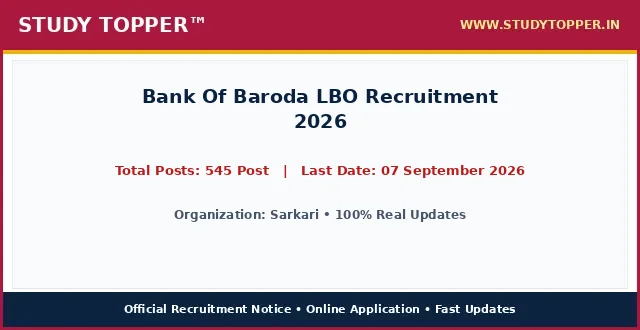
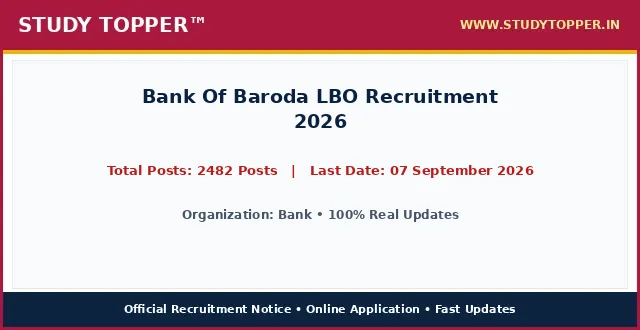
chore(lifecycle): daily auto-sort vacancies and update active dates

Changed region(s): [[0.1562, 0.4848, 0.8438, 0.5455], [0.25, 0.6364, 0.75, 0.6667]]

diff --git a/pages/2026-bank-of-baroda-lbo-aug26.html b/pages/2026-bank-of-baroda-lbo-aug26.html
@@ -987,12 +987,12 @@ ul.wp-block-latest-posts a:hover {
 <main class="site-main" id="main">
 <div class="gb-container gb-container-b39c368c">
 <h1 class="gb-headline gb-headline-e52a0102 gb-headline-text" style="font-size: 22px; font-weight: 700; color: #0000cd; text-align: left; margin: 8px 0 4px 0; line-height: 1.3; width: 100%; font-family: '-apple-system, BlinkMacSystemFont, 'Segoe UI', Roboto, 'Helvetica Neue', Arial, sans-serif', Times, serif, Hind, sans-serif;">Bank Of Baroda LBO Recruitment 2026</h1>
-<div class="gb-container gb-container-659bd175"><p style="color: #cd0808; font-weight: 700; font-size: 15px; margin: 2px 0 7px 0; text-align: left; font-family: '-apple-system, BlinkMacSystemFont, 'Segoe UI', Roboto, 'Helvetica Neue', Arial, sans-serif', Times, serif, Hind, sans-serif;">Post Date: August 22, 2026 11:50 AM</p></div>
-<p class="gb-headline gb-headline-550ae316 short_Details gb-headline-text" style="width: 100%; max-width: 100%; font-size: 16.8px; line-height: 1.55; color: #000000; text-align: justify; text-justify: inter-word; margin: 8px 0 14px 0; display: block; font-family: '-apple-system, BlinkMacSystemFont, 'Segoe UI', Roboto, 'Helvetica Neue', Arial, sans-serif', Times, serif, Hind, sans-serif;"><strong style="color: #0000cd;">Sarkari</strong> has officially published the recruitment notice <strong style="color: #cd0808;">Bank Of Baroda LBO Recruitment 2026</strong> under notification number Official Advt 2026. Online applications are invited for 545 Post across multiple departments and cadre positions. Interested candidates possessing the requisite educational qualifications and falling between 18 Years to 40 Years can complete their online registration before the application deadline of 07 September 2026. Applicants should read the eligibility criteria, category reservation rules, and exam scheme thoroughly before submitting applications.</p>
+<div class="gb-container gb-container-659bd175"><p style="color: #cd0808; font-weight: 700; font-size: 15px; margin: 2px 0 7px 0; text-align: left; font-family: '-apple-system, BlinkMacSystemFont, 'Segoe UI', Roboto, 'Helvetica Neue', Arial, sans-serif', Times, serif, Hind, sans-serif;">Post Date: August 22, 2026 12:42 PM</p></div>
+<p class="gb-headline gb-headline-550ae316 short_Details gb-headline-text" style="width: 100%; max-width: 100%; font-size: 16.8px; line-height: 1.55; color: #000000; text-align: justify; text-justify: inter-word; margin: 8px 0 14px 0; display: block; font-family: '-apple-system, BlinkMacSystemFont, 'Segoe UI', Roboto, 'Helvetica Neue', Arial, sans-serif', Times, serif, Hind, sans-serif;"><strong style="color: #0000cd;">Bank Of Baroda LBO</strong> has officially published the recruitment notice <strong style="color: #cd0808;">Bank Of Baroda LBO Recruitment 2026</strong> under notification number 2026. Online applications are invited for 2482 Posts across multiple departments and cadre positions. Interested candidates possessing the requisite educational qualifications and falling between 18 Years to 40 Years can complete their online registration before the application deadline of 07 September 2026. Applicants should read the eligibility criteria, category reservation rules, and exam scheme thoroughly before submitting applications.</p>
 <div class="gb-container gb-container-9849916c"><div class="social-buttons-compact" style="display: flex; justify-content: flex-start; align-items: center; gap: 10px; margin: 10px 0 16px 0; width: 100%;"><a class="social-btn-compact wa" href="https://whatsapp.com/channel/0029Va9xyz" rel="noopener" style="background-color: #00d084; color: #ffffff; padding: 10px 18px; border-radius: 4px; text-decoration: none; font-weight: bold; font-size: 15.5px; display: inline-flex; align-items: center; justify-content: center; height: auto;" target="_blank">WhatsApp</a><a class="social-btn-compact tg" href="https://t.me/studytopperofficial" rel="noopener" style="background-color: #0088cc; color: #ffffff; padding: 10px 18px; border-radius: 4px; text-decoration: none; font-weight: bold; font-size: 15.5px; display: inline-flex; align-items: center; justify-content: center; height: auto;" target="_blank">Telegram</a></div></div>
 <div class="gb-container gb-container-f58e6ca1" style="border: 2px solid #5b032f; border-radius: 4px; overflow: hidden; margin: 15px 0 20px 0; background-color: #ffffff; width: 100%; box-sizing: border-box;">
 <h2 class="gb-headline gb-headline-2ca5a791 gb-headline-text" style="font-size: 16px; font-weight: 700; text-align: center; color: #ef0303; line-height: 1.3; padding: 6px 4px; margin: 0; background: #ffffff; font-family: '-apple-system, BlinkMacSystemFont, 'Segoe UI', Roboto, 'Helvetica Neue', Arial, sans-serif', Times, serif, Hind, sans-serif;">Bank Of Baroda LBO Recruitment 2026 &ndash; Latest Details &amp; Updates</h2>
-<h3 class="gb-headline gb-headline-7d5f86e8 gb-headline-text" style="font-size: 16px; font-weight: 600; text-align: center; color: #009703; line-height: 1.25; margin: 0; padding: 2px 4px 6px 4px; background: #ffffff; font-family: '-apple-system, BlinkMacSystemFont, 'Segoe UI', Roboto, 'Helvetica Neue', Arial, sans-serif', Times, serif, Hind, sans-serif;">Sarkari : Details &amp; Summary</h3>
+<h3 class="gb-headline gb-headline-7d5f86e8 gb-headline-text" style="font-size: 16px; font-weight: 600; text-align: center; color: #009703; line-height: 1.25; margin: 0; padding: 2px 4px 6px 4px; background: #ffffff; font-family: '-apple-system, BlinkMacSystemFont, 'Segoe UI', Roboto, 'Helvetica Neue', Arial, sans-serif', Times, serif, Hind, sans-serif;">Bank Of Baroda LBO : Details &amp; Summary</h3>
 <p class="gb-headline gb-headline-79adf169 gb-headline-text" style="margin: 0 0 6px 0; font-family: '-apple-system, BlinkMacSystemFont, 'Segoe UI', Roboto, 'Helvetica Neue', Arial, sans-serif', Times, serif, Hind, sans-serif; text-align: center; font-size: 18px; font-weight: 700;"><a href="/" style="color: #0000ff; text-decoration: underline;">StudyTopper.in</a></p>
 
 <style id="st-post-boxes-responsive-css">
@@ -1025,7 +1025,7 @@ ul.wp-block-latest-posts a:hover {
     <div style="background-color: #5b032f; color: #ffffff; padding: 8px 10px; font-size: 20px; font-weight: 700; text-align: center; font-family: '-apple-system, BlinkMacSystemFont, 'Segoe UI', Roboto, 'Helvetica Neue', Arial, sans-serif', Times, serif, Hind, sans-serif;">Important Dates</div>
     <div style="padding: 12px 14px; background-color: #ffffff;">
       <ul style="padding-left: 20px; margin: 0; list-style-type: disc; text-align: left; font-size: 14pt; line-height: 1.6; font-family: '-apple-system, BlinkMacSystemFont, 'Segoe UI', Roboto, 'Helvetica Neue', Arial, sans-serif', Times, serif, Hind, sans-serif;">
-        
+        <li><span style="font-size: 14pt;">Application Begin : <strong>As per Official Notification</strong></span></li><li><span style="font-size: 14pt;">Last Date for Apply Online : <span style="color: #ff0000;"><strong>07 September 2026</strong></span></span></li><li><span style="font-size: 14pt;">Pay Exam Fee Last Date : <span style="color: #ff0000;"><strong>07 September 2026</strong></span></span></li><li><span style="font-size: 14pt;">Exam Date : <strong>As per Schedule</strong></span></li><li><span style="font-size: 14pt;">Admit Card Available : <strong>Before Examination</strong></span></li>
       </ul>
     </div>
   </div>
@@ -1034,7 +1034,7 @@ ul.wp-block-latest-posts a:hover {
     <div style="background-color: #5b032f; color: #ffffff; padding: 8px 10px; font-size: 20px; font-weight: 700; text-align: center; font-family: '-apple-system, BlinkMacSystemFont, 'Segoe UI', Roboto, 'Helvetica Neue', Arial, sans-serif', Times, serif, Hind, sans-serif;">Application Fee</div>
     <div style="padding: 12px 14px; background-color: #ffffff;">
       <ul style="padding-left: 20px; margin: 0; list-style-type: disc; text-align: left; font-size: 14pt; line-height: 1.6; font-family: '-apple-system, BlinkMacSystemFont, 'Segoe UI', Roboto, 'Helvetica Neue', Arial, sans-serif', Times, serif, Hind, sans-serif;">
-        <li><span style="font-size: 14pt;">Bihar Police BPSSC Sub Inspector SI Prohibition Result 2026 Advt. No. : <strong>03/2026</strong></span></li><li><span style="font-size: 14pt;">UP Scholarship Online Form 2026 : <strong>2027</strong></span></li>
+        <li><span style="font-size: 14pt;">General / OBC / EWS : <strong>Check Official Notification</strong></span></li><li><span style="font-size: 14pt;">SC / ST / PH : <strong>Check Official Notification</strong></span></li><li><span style="font-size: 14pt;">Payment Mode : <strong>Online Fee Mode via Net Banking, Debit/Credit Card or Offline Challan</strong></span></li>
       </ul>
       <div style="margin-top: 10px; font-size: 14pt; line-height: 1.5; color: #000000; border-top: 1px dashed #ccc; padding-top: 8px; font-family: '-apple-system, BlinkMacSystemFont, 'Segoe UI', Roboto, 'Helvetica Neue', Arial, sans-serif', Times, serif, Hind, sans-serif;">
         <strong>Mode of Payment / Access:</strong> Online via Net Banking, Debit Card, Credit Card, UPI or Free Candidate Portal.
@@ -1047,10 +1047,10 @@ ul.wp-block-latest-posts a:hover {
 <div class="st-grid-row" style="display: flex; flex-wrap: wrap; width: 100%; border-top: 2px solid #5b032f; margin: 0; padding: 0; box-sizing: border-box;">
   <!-- Left Col: Age Limits -->
   <div class="st-col-half st-col-border-right" style="box-sizing: border-box; vertical-align: top;">
-    <div style="background-color: #046132; color: #ffffff; padding: 8px 10px; font-size: 17px; font-weight: 700; text-align: center; font-family: '-apple-system, BlinkMacSystemFont, 'Segoe UI', Roboto, 'Helvetica Neue', Arial, sans-serif', Times, serif, Hind, sans-serif;">Sarkari : Age Limits As On 01 August 2026</div>
+    <div style="background-color: #046132; color: #ffffff; padding: 8px 10px; font-size: 17px; font-weight: 700; text-align: center; font-family: '-apple-system, BlinkMacSystemFont, 'Segoe UI', Roboto, 'Helvetica Neue', Arial, sans-serif', Times, serif, Hind, sans-serif;">Bank Of Baroda LBO : Age Limits As On 01/08/2026</div>
     <div style="padding: 12px 14px; background-color: #ffffff;">
       <ul style="padding-left: 20px; margin: 0; list-style-type: disc; text-align: left; font-size: 14pt; line-height: 1.6; font-family: '-apple-system, BlinkMacSystemFont, 'Segoe UI', Roboto, 'Helvetica Neue', Arial, sans-serif', Times, serif, Hind, sans-serif;">
-        
+        <li><span style="font-size: 14pt;">Minimum Age : <strong>18 Years (As per post rules)</strong></span></li><li><span style="font-size: 14pt;">Maximum Age : <strong>40 Years (As per post rules)</strong></span></li><li><span style="font-size: 14pt;">Age Relaxation : <strong>Age Relaxation Extra as per Bank Recruitment Rules.</strong></span></li>
       </ul>
     </div>
   </div>
@@ -1058,7 +1058,7 @@ ul.wp-block-latest-posts a:hover {
   <div class="st-col-half" style="box-sizing: border-box; vertical-align: top;">
     <div style="background-color: #f53c00; color: #ffffff; padding: 8px 10px; font-size: 20px; font-weight: 700; text-align: center; font-family: '-apple-system, BlinkMacSystemFont, 'Segoe UI', Roboto, 'Helvetica Neue', Arial, sans-serif', Times, serif, Hind, sans-serif;">Total Post</div>
     <div style="padding: 24px 10px; background-color: #ffffff; text-align: center;">
-      <span style="font-size: 28px; font-weight: 800; color: #000000; font-family: '-apple-system, BlinkMacSystemFont, 'Segoe UI', Roboto, 'Helvetica Neue', Arial, sans-serif', Times, serif, Hind, sans-serif;">545 Post</span>
+      <span style="font-size: 28px; font-weight: 800; color: #000000; font-family: '-apple-system, BlinkMacSystemFont, 'Segoe UI', Roboto, 'Helvetica Neue', Arial, sans-serif', Times, serif, Hind, sans-serif;">2482 Posts</span>
     </div>
   </div>
 </div>
@@ -1079,9 +1079,9 @@ ul.wp-block-latest-posts a:hover {
 <th style="background-color: #f53c00; color: #ffffff; padding: 6px 10px; text-align: center; border: 1px solid #d35400; font-size: 15px; font-weight: 700; font-family: '-apple-system, BlinkMacSystemFont, 'Segoe UI', Roboto, 'Helvetica Neue', Arial, sans-serif', Times, serif, Hind, sans-serif;">Eligibility Criteria</th>
 </tr>
 <tr>
-<td style="padding: 8px; border: 1px solid #ddd; font-weight: bold;">Sarkari Recruitment</td>
-<td style="padding: 8px; border: 1px solid #ddd; text-align: center; font-weight: bold;">545 Post</td>
-<td style="padding: 8px; border: 1px solid #ddd;">Please refer to the official notification linked below for detailed educational qualifications.</td>
+<td style="padding: 8px; border: 1px solid #ddd; font-weight: bold;">Local Bank Officer (LBO)</td>
+<td style="padding: 8px; border: 1px solid #ddd; text-align: center; font-weight: bold;">Candidates must have Graduation degree in any discipline from a recognized University/Institution. with at least 1 year of experience as an officer in a Scheduled or Regional Rural Bank. Proficiency in the local language is required.</td>
+<td style="padding: 8px; border: 1px solid #ddd;"></td>
 </tr>
 </tbody>
 </table>
@@ -1093,10 +1093,10 @@ ul.wp-block-latest-posts a:hover {
 <table style="border-collapse: collapse; width: 100%;">
 <tbody>
 <tr>
-<td style="width: 100%; text-align: center;"><span style="background-color: #000080; color: #ffffff; font-size: 14pt; font-weight: bold; display: block; padding: 6px;"> How to Fill Sarkari Online Application Form </span></td>
+<td style="width: 100%; text-align: center;"><span style="background-color: #000080; color: #ffffff; font-size: 14pt; font-weight: bold; display: block; padding: 6px;"> How to Fill Bank Of Baroda LBO Online Application Form </span></td>
 </tr>
 <tr>
-<td style="width: 100%;"><ol style="margin:0; padding-left:18px; text-align: left !important; list-style-position: outside !important"><li style="margin-bottom:6px; text-align: left !important;">Read the official recruitment notification carefully before applying.</li><li style="margin-bottom:6px; text-align: left !important;">Keep all basic documents ready: ID Proof, Address Details, Basic Details.</li><li style="margin-bottom:6px; text-align: left !important;">Ready your scanned documents like Photo, Signature, ID Proof, etc.</li><li style="margin-bottom:6px; text-align: left !important;">Click on the 'Apply Online' link given in the Important Links section below.</li><li style="margin-bottom:6px; text-align: left !important;">Fill out all the columns in the application form accurately.</li><li style="margin-bottom:6px; text-align: left !important;">Pay the required application fee if applicable.</li><li style="margin-bottom:6px; text-align: left !important;">Take a printout of the final submitted application form.</li><li style="margin-bottom:6px; text-align: left !important;">Resize candidate photograph and signature accurately using the <a href="https://indtool.in" rel="noopener" target="_blank"><strong>StudyTopper Tools</strong></a> image resizer at indtool.in.</li></ol></td>
+<td style="width: 100%;"><ol style="margin:0; padding-left:18px; text-align: left !important; list-style-position: outside !important"><li style="margin-bottom:6px; text-align: left !important;">Candidate must read the complete official notification issued by Bank before applying.</li><li style="margin-bottom:6px; text-align: left !important;">Collect and verify all essential documents including Educational Proof, ID Proof, Address Details, and Basic Details.</li><li style="margin-bottom:6px; text-align: left !important;">Scan all necessary documents accurately: Passport Size Photograph, Signature, ID Proof, and Category Certificate.</li><li style="margin-bottom:6px; text-align: left !important;">Click on the 'Apply Online' link given in the Important Links section below on StudyTopper.</li><li style="margin-bottom:6px; text-align: left !important;">Fill all required personal, educational, and communication details in the application form carefully.</li><li style="margin-bottom:6px; text-align: left !important;">Review the application form preview thoroughly before final submission.</li><li style="margin-bottom:6px; text-align: left !important;">Pay the prescribed examination fee through online payment gateway if applicable.</li><li style="margin-bottom:6px; text-align: left !important;">Take a clean printout of the final submitted application form for future reference.</li><li style="margin-bottom:6px; text-align: left !important;">Resize candidate photograph and signature accurately using the <a href="https://indtool.in" rel="noopener" target="_blank"><strong>StudyTopper Tools</strong></a> image resizer at indtool.in.</li></ol></td>
 </tr>
 </tbody>
 </table>
@@ -1104,7 +1104,7 @@ ul.wp-block-latest-posts a:hover {
 <table style="border-collapse: collapse; width: 100%;">
 <tbody>
 <tr>
-<td style="width: 100%; text-align: center;"><span style="background-color: #000080; color: #ffffff; font-size: 14pt;"><strong><span style="color: #ffffff;"> Sarkari Recruitment 2026 : Mode Of Selection </span></strong></span></td>
+<td style="width: 100%; text-align: center;"><span style="background-color: #000080; color: #ffffff; font-size: 14pt;"><strong><span style="color: #ffffff;"> Bank Of Baroda LBO Recruitment 2026 : Mode Of Selection </span></strong></span></td>
 </tr>
 <tr>
 <td style="width: 100%;">
@@ -1144,10 +1144,26 @@ ul.wp-block-latest-posts a:hover {
 
 <tr style="border-bottom: 1px solid #000000; background-color: #fff37a;">
 <td style="width: 50%; padding: 14px 16px; border-right: 1px solid #000000; text-align: center;">
+<span style="font-size: 19px; font-weight: 800; color: #000000; font-family: '-apple-system, BlinkMacSystemFont, 'Segoe UI', Roboto, 'Helvetica Neue', Arial, sans-serif', Times, serif, Hind, sans-serif;">Join Our WhatsApp Channel</span>
+</td>
+<td style="width: 50%; padding: 14px 16px; text-align: center;">
+<span style="font-size: 20px; font-weight: 800; font-family: '-apple-system, BlinkMacSystemFont, 'Segoe UI', Roboto, 'Helvetica Neue', Arial, sans-serif', Times, serif, Hind, sans-serif;"><a href="https://whatsapp.com/channel/0029VaAbQf01NCrYADMLt00L" aria-label="Click Here for Join Our WhatsApp Channel - Bank Of Baroda LBO Recruitment 2026" rel="noopener noreferrer" style="color: #0000ef; font-weight: 800; text-decoration: none;" target="_blank">Click Here</a></span>
+</td>
+</tr>
+<tr style="border-bottom: 1px solid #000000; background-color: #fff37a;">
+<td style="width: 50%; padding: 14px 16px; border-right: 1px solid #000000; text-align: center;">
+<span style="font-size: 19px; font-weight: 800; color: #000000; font-family: '-apple-system, BlinkMacSystemFont, 'Segoe UI', Roboto, 'Helvetica Neue', Arial, sans-serif', Times, serif, Hind, sans-serif;">Join Our Telegram Channel</span>
+</td>
+<td style="width: 50%; padding: 14px 16px; text-align: center;">
+<span style="font-size: 20px; font-weight: 800; font-family: '-apple-system, BlinkMacSystemFont, 'Segoe UI', Roboto, 'Helvetica Neue', Arial, sans-serif', Times, serif, Hind, sans-serif;"><a href="https://t.me/SarkariExam_info" aria-label="Click Here for Join Our Telegram Channel - Bank Of Baroda LBO Recruitment 2026" rel="noopener noreferrer" style="color: #0000ef; font-weight: 800; text-decoration: none;" target="_blank">Click Here</a></span>
+</td>
+</tr>
+<tr style="border-bottom: 1px solid #000000; background-color: #fff37a;">
+<td style="width: 50%; padding: 14px 16px; border-right: 1px solid #000000; text-align: center;">
 <span style="font-size: 19px; font-weight: 800; color: #000000; font-family: '-apple-system, BlinkMacSystemFont, 'Segoe UI', Roboto, 'Helvetica Neue', Arial, sans-serif', Times, serif, Hind, sans-serif;">Apply Online Link</span>
 </td>
 <td style="width: 50%; padding: 14px 16px; text-align: center;">
-<span style="font-size: 20px; font-weight: 800; font-family: '-apple-system, BlinkMacSystemFont, 'Segoe UI', Roboto, 'Helvetica Neue', Arial, sans-serif', Times, serif, Hind, sans-serif;"><a href="https://www.sarkariresult.com/2026/mpesb-group2-subgroup-4-aug26/" aria-label="Click Here for Apply Online Link - Bank Of Baroda LBO Recruitment 2026" rel="noopener noreferrer" style="color: #0000ef; font-weight: 800; text-decoration: none;" target="_blank">Click Here</a></span>
+<span style="font-size: 20px; font-weight: 800; font-family: '-apple-system, BlinkMacSystemFont, 'Segoe UI', Roboto, 'Helvetica Neue', Arial, sans-serif', Times, serif, Hind, sans-serif;"><a href="https://ibpsreg.ibps.in/bobjul26/" aria-label="Click Here for Apply Online Link - Bank Of Baroda LBO Recruitment 2026" rel="noopener noreferrer" style="color: #0000ef; font-weight: 800; text-decoration: none;" target="_blank">Click Here</a></span>
 </td>
 </tr>
 <tr style="border-bottom: 1px solid #000000; background-color: #fff37a;">
@@ -1155,15 +1171,7 @@ ul.wp-block-latest-posts a:hover {
 <span style="font-size: 19px; font-weight: 800; color: #000000; font-family: '-apple-system, BlinkMacSystemFont, 'Segoe UI', Roboto, 'Helvetica Neue', Arial, sans-serif', Times, serif, Hind, sans-serif;">Check Official Notification</span>
 </td>
 <td style="width: 50%; padding: 14px 16px; text-align: center;">
-<span style="font-size: 20px; font-weight: 800; font-family: '-apple-system, BlinkMacSystemFont, 'Segoe UI', Roboto, 'Helvetica Neue', Arial, sans-serif', Times, serif, Hind, sans-serif;"><a href="" aria-label="Click Here for Check Official Notification - Bank Of Baroda LBO Recruitment 2026" rel="noopener noreferrer" style="color: #0000ef; font-weight: 800; text-decoration: none;" target="_blank">Click Here</a></span>
-</td>
-</tr>
-<tr style="border-bottom: 1px solid #000000; background-color: #fff37a;">
-<td style="width: 50%; padding: 14px 16px; border-right: 1px solid #000000; text-align: center;">
-<span style="font-size: 19px; font-weight: 800; color: #000000; font-family: '-apple-system, BlinkMacSystemFont, 'Segoe UI', Roboto, 'Helvetica Neue', Arial, sans-serif', Times, serif, Hind, sans-serif;">Photo / Sign Resizer Tool</span>
-</td>
-<td style="width: 50%; padding: 14px 16px; text-align: center;">
-<span style="font-size: 20px; font-weight: 800; font-family: '-apple-system, BlinkMacSystemFont, 'Segoe UI', Roboto, 'Helvetica Neue', Arial, sans-serif', Times, serif, Hind, sans-serif;"><a href="https://indtool.in" aria-label="Click Here for Photo / Sign Resizer Tool - Bank Of Baroda LBO Recruitment 2026" rel="noopener noreferrer" style="color: #0000ef; font-weight: 800; text-decoration: none;" target="_blank">Click Here</a></span>
+<span style="font-size: 20px; font-weight: 800; font-family: '-apple-system, BlinkMacSystemFont, 'Segoe UI', Roboto, 'Helvetica Neue', Arial, sans-serif', Times, serif, Hind, sans-serif;"><a href="https://bankofbaroda.bank.in/-/media/Project/BOB/CountryWebsites/India/Career/2026/26-08/Advertisement-18-04.pdf" aria-label="Click Here for Check Official Notification - Bank Of Baroda LBO Recruitment 2026" rel="noopener noreferrer" style="color: #0000ef; font-weight: 800; text-decoration: none;" target="_blank">Click Here</a></span>
 </td>
 </tr>
 <tr style="border-bottom: 1px solid #000000; background-color: #fff37a;">
@@ -1171,15 +1179,55 @@ ul.wp-block-latest-posts a:hover {
 <span style="font-size: 19px; font-weight: 800; color: #000000; font-family: '-apple-system, BlinkMacSystemFont, 'Segoe UI', Roboto, 'Helvetica Neue', Arial, sans-serif', Times, serif, Hind, sans-serif;">Check Sarkari Result</span>
 </td>
 <td style="width: 50%; padding: 14px 16px; text-align: center;">
-<span style="font-size: 20px; font-weight: 800; font-family: '-apple-system, BlinkMacSystemFont, 'Segoe UI', Roboto, 'Helvetica Neue', Arial, sans-serif', Times, serif, Hind, sans-serif;"><a href="/" aria-label="Click Here for Check Sarkari Result - Bank Of Baroda LBO Recruitment 2026" rel="noopener noreferrer" style="color: #0000ef; font-weight: 800; text-decoration: none;" >Click Here</a></span>
+<span style="font-size: 20px; font-weight: 800; font-family: '-apple-system, BlinkMacSystemFont, 'Segoe UI', Roboto, 'Helvetica Neue', Arial, sans-serif', Times, serif, Hind, sans-serif;"><a href="https://sarkariresult.com.cm/" aria-label="Click Here for Check Sarkari Result - Bank Of Baroda LBO Recruitment 2026" rel="noopener noreferrer" style="color: #0000ef; font-weight: 800; text-decoration: none;" target="_blank">Click Here</a></span>
+</td>
+</tr>
+<tr style="border-bottom: 1px solid #000000; background-color: #fff37a;">
+<td style="width: 50%; padding: 14px 16px; border-right: 1px solid #000000; text-align: center;">
+<span style="font-size: 19px; font-weight: 800; color: #000000; font-family: '-apple-system, BlinkMacSystemFont, 'Segoe UI', Roboto, 'Helvetica Neue', Arial, sans-serif', Times, serif, Hind, sans-serif;">Bank of Baroda Official Website</span>
+</td>
+<td style="width: 50%; padding: 14px 16px; text-align: center;">
+<span style="font-size: 20px; font-weight: 800; font-family: '-apple-system, BlinkMacSystemFont, 'Segoe UI', Roboto, 'Helvetica Neue', Arial, sans-serif', Times, serif, Hind, sans-serif;"><a href="https://www.bankofbaroda.in/" aria-label="Click Here for Bank of Baroda Official Website - Bank Of Baroda LBO Recruitment 2026" rel="noopener noreferrer" style="color: #0000ef; font-weight: 800; text-decoration: none;" target="_blank">Click Here</a></span>
+</td>
+</tr>
+<tr style="border-bottom: 1px solid #000000; background-color: #fff37a;">
+<td style="width: 50%; padding: 14px 16px; border-right: 1px solid #000000; text-align: center;">
+<span style="font-size: 19px; font-weight: 800; color: #000000; font-family: '-apple-system, BlinkMacSystemFont, 'Segoe UI', Roboto, 'Helvetica Neue', Arial, sans-serif', Times, serif, Hind, sans-serif;">Latest Posts Haryana HTET Score Card 2026 – Out SSC Delhi Police Constable (Executive) PE & MT Notice 2026 UPSC CDS-II Final Result With Marks 2026 IDBI JAM Final Result 2026 Railway RRB ALP Application Status 2026 – Out</span>
+</td>
+<td style="width: 50%; padding: 14px 16px; text-align: center;">
+<span style="font-size: 20px; font-weight: 800; font-family: '-apple-system, BlinkMacSystemFont, 'Segoe UI', Roboto, 'Helvetica Neue', Arial, sans-serif', Times, serif, Hind, sans-serif;"><a href="https://sarkariresult.com.cm/ssc-delhi-police-constable-executive-2026/" aria-label="Click Here for Latest Posts Haryana HTET Score Card 2026 – Out SSC Delhi Police Constable (Executive) PE & MT Notice 2026 UPSC CDS-II Final Result With Marks 2026 IDBI JAM Final Result 2026 Railway RRB ALP Application Status 2026 – Out - Bank Of Baroda LBO Recruitment 2026" rel="noopener noreferrer" style="color: #0000ef; font-weight: 800; text-decoration: none;" target="_blank">Click Here</a></span>
+</td>
+</tr>
+<tr style="border-bottom: 1px solid #000000; background-color: #fff37a;">
+<td style="width: 50%; padding: 14px 16px; border-right: 1px solid #000000; text-align: center;">
+<span style="font-size: 19px; font-weight: 800; color: #000000; font-family: '-apple-system, BlinkMacSystemFont, 'Segoe UI', Roboto, 'Helvetica Neue', Arial, sans-serif', Times, serif, Hind, sans-serif;">Latest Posts Haryana HTET Score Card 2026 – Out SSC Delhi Police Constable (Executive) PE & MT Notice 2026 UPSC CDS-II Final Result With Marks 2026 IDBI JAM Final Result 2026 Railway RRB ALP Application Status 2026 – Out</span>
+</td>
+<td style="width: 50%; padding: 14px 16px; text-align: center;">
+<span style="font-size: 20px; font-weight: 800; font-family: '-apple-system, BlinkMacSystemFont, 'Segoe UI', Roboto, 'Helvetica Neue', Arial, sans-serif', Times, serif, Hind, sans-serif;"><a href="https://sarkariresult.com.cm/ssc-selection-phase-14-2026/" aria-label="Click Here for Latest Posts Haryana HTET Score Card 2026 – Out SSC Delhi Police Constable (Executive) PE & MT Notice 2026 UPSC CDS-II Final Result With Marks 2026 IDBI JAM Final Result 2026 Railway RRB ALP Application Status 2026 – Out - Bank Of Baroda LBO Recruitment 2026" rel="noopener noreferrer" style="color: #0000ef; font-weight: 800; text-decoration: none;" target="_blank">Click Here</a></span>
+</td>
+</tr>
+<tr style="border-bottom: 1px solid #000000; background-color: #fff37a;">
+<td style="width: 50%; padding: 14px 16px; border-right: 1px solid #000000; text-align: center;">
+<span style="font-size: 19px; font-weight: 800; color: #000000; font-family: '-apple-system, BlinkMacSystemFont, 'Segoe UI', Roboto, 'Helvetica Neue', Arial, sans-serif', Times, serif, Hind, sans-serif;">Latest Posts Haryana HTET Score Card 2026 – Out SSC Delhi Police Constable (Executive) PE & MT Notice 2026 UPSC CDS-II Final Result With Marks 2026 IDBI JAM Final Result 2026 Railway RRB ALP Application Status 2026 – Out</span>
+</td>
+<td style="width: 50%; padding: 14px 16px; text-align: center;">
+<span style="font-size: 20px; font-weight: 800; font-family: '-apple-system, BlinkMacSystemFont, 'Segoe UI', Roboto, 'Helvetica Neue', Arial, sans-serif', Times, serif, Hind, sans-serif;"><a href="https://sarkariresult.com.cm/upsssc-stenographer-2025/" aria-label="Click Here for Latest Posts Haryana HTET Score Card 2026 – Out SSC Delhi Police Constable (Executive) PE & MT Notice 2026 UPSC CDS-II Final Result With Marks 2026 IDBI JAM Final Result 2026 Railway RRB ALP Application Status 2026 – Out - Bank Of Baroda LBO Recruitment 2026" rel="noopener noreferrer" style="color: #0000ef; font-weight: 800; text-decoration: none;" target="_blank">Click Here</a></span>
+</td>
+</tr>
+<tr style="border-bottom: 1px solid #000000; background-color: #fff37a;">
+<td style="width: 50%; padding: 14px 16px; border-right: 1px solid #000000; text-align: center;">
+<span style="font-size: 19px; font-weight: 800; color: #000000; font-family: '-apple-system, BlinkMacSystemFont, 'Segoe UI', Roboto, 'Helvetica Neue', Arial, sans-serif', Times, serif, Hind, sans-serif;">Latest Posts Haryana HTET Score Card 2026 – Out SSC Delhi Police Constable (Executive) PE & MT Notice 2026 UPSC CDS-II Final Result With Marks 2026 IDBI JAM Final Result 2026 Railway RRB ALP Application Status 2026 – Out</span>
+</td>
+<td style="width: 50%; padding: 14px 16px; text-align: center;">
+<span style="font-size: 20px; font-weight: 800; font-family: '-apple-system, BlinkMacSystemFont, 'Segoe UI', Roboto, 'Helvetica Neue', Arial, sans-serif', Times, serif, Hind, sans-serif;"><a href="https://sarkariresult.com.cm/railway-rrb-group-d-level-1-recruitment-2026-online/" aria-label="Click Here for Latest Posts Haryana HTET Score Card 2026 – Out SSC Delhi Police Constable (Executive) PE & MT Notice 2026 UPSC CDS-II Final Result With Marks 2026 IDBI JAM Final Result 2026 Railway RRB ALP Application Status 2026 – Out - Bank Of Baroda LBO Recruitment 2026" rel="noopener noreferrer" style="color: #0000ef; font-weight: 800; text-decoration: none;" target="_blank">Click Here</a></span>
 </td>
 </tr>
 <tr style=" background-color: #fff37a;">
 <td style="width: 50%; padding: 14px 16px; border-right: 1px solid #000000; text-align: center;">
-<span style="font-size: 19px; font-weight: 800; color: #000000; font-family: '-apple-system, BlinkMacSystemFont, 'Segoe UI', Roboto, 'Helvetica Neue', Arial, sans-serif', Times, serif, Hind, sans-serif;">Sarkari Website</span>
+<span style="font-size: 19px; font-weight: 800; color: #000000; font-family: '-apple-system, BlinkMacSystemFont, 'Segoe UI', Roboto, 'Helvetica Neue', Arial, sans-serif', Times, serif, Hind, sans-serif;">Latest Posts Haryana HTET Score Card 2026 – Out SSC Delhi Police Constable (Executive) PE & MT Notice 2026 UPSC CDS-II Final Result With Marks 2026 IDBI JAM Final Result 2026 Railway RRB ALP Application Status 2026 – Out</span>
 </td>
 <td style="width: 50%; padding: 14px 16px; text-align: center;">
-<span style="font-size: 20px; font-weight: 800; font-family: '-apple-system, BlinkMacSystemFont, 'Segoe UI', Roboto, 'Helvetica Neue', Arial, sans-serif', Times, serif, Hind, sans-serif;"><a href="" aria-label="Click Here for Sarkari Website - Bank Of Baroda LBO Recruitment 2026" rel="noopener noreferrer" style="color: #0000ef; font-weight: 800; text-decoration: none;" target="_blank">Click Here</a></span>
+<span style="font-size: 20px; font-weight: 800; font-family: '-apple-system, BlinkMacSystemFont, 'Segoe UI', Roboto, 'Helvetica Neue', Arial, sans-serif', Times, serif, Hind, sans-serif;"><a href="https://sarkariresult.com.cm/uppsc-gic-lecturer-2025/" aria-label="Click Here for Latest Posts Haryana HTET Score Card 2026 – Out SSC Delhi Police Constable (Executive) PE & MT Notice 2026 UPSC CDS-II Final Result With Marks 2026 IDBI JAM Final Result 2026 Railway RRB ALP Application Status 2026 – Out - Bank Of Baroda LBO Recruitment 2026" rel="noopener noreferrer" style="color: #0000ef; font-weight: 800; text-decoration: none;" target="_blank">Click Here</a></span>
 </td>
 </tr>
 </tbody>
@@ -1193,9 +1241,9 @@ ul.wp-block-latest-posts a:hover {
   <div style="font-size: 14.5px; line-height: 1.65; color: #222222;">
     <p style="margin: 0 0 4px 0;"><strong style="color: #000080;">Q1. What is the last date to apply for Bank Of Baroda LBO Recruitment 2026?</strong></p>
 <p style="margin: 0 0 16px 0; color: #333333; line-height: 1.6;">Ans. The last date for online submission of application is 07 September 2026.</p><p style="margin: 0 0 4px 0;"><strong style="color: #000080;">Q2. What is the age limit for Bank Of Baroda LBO Recruitment 2026?</strong></p>
-<p style="margin: 0 0 16px 0; color: #333333; line-height: 1.6;">Ans. Candidate age should generally be between 18 Years and 40 Years as on 01 August 2026. Age relaxation is applicable per rules.</p><p style="margin: 0 0 4px 0;"><strong style="color: #000080;">Q3. What is the application fee for Bank Of Baroda LBO Recruitment 2026?</strong></p>
-<p style="margin: 0 0 16px 0; color: #333333; line-height: 1.6;">Ans. Application fee varies by category (e.g., General/OBC: Rs. 100/-, SC/ST/PwD: Exempted).</p><p style="margin: 0 0 4px 0;"><strong style="color: #000080;">Q4. How many total posts are available in Bank Of Baroda LBO Recruitment 2026?</strong></p>
-<p style="margin: 0 0 16px 0; color: #333333; line-height: 1.6;">Ans. A total of 545 Post have been officially announced for this recruitment drive.</p><p style="margin: 0 0 4px 0;"><strong style="color: #000080;">Q5. How can I apply online for Bank Of Baroda LBO Recruitment 2026?</strong></p>
+<p style="margin: 0 0 16px 0; color: #333333; line-height: 1.6;">Ans. Candidate age should generally be between 18 Years and 40 Years as on 01/08/2026. Age relaxation is applicable per rules.</p><p style="margin: 0 0 4px 0;"><strong style="color: #000080;">Q3. What is the application fee for Bank Of Baroda LBO Recruitment 2026?</strong></p>
+<p style="margin: 0 0 16px 0; color: #333333; line-height: 1.6;">Ans. Application fee varies by category (e.g., General/OBC: Check Official Notification, SC/ST/PwD: Exempted).</p><p style="margin: 0 0 4px 0;"><strong style="color: #000080;">Q4. How many total posts are available in Bank Of Baroda LBO Recruitment 2026?</strong></p>
+<p style="margin: 0 0 16px 0; color: #333333; line-height: 1.6;">Ans. A total of 2482 Posts have been officially announced for this recruitment drive.</p><p style="margin: 0 0 4px 0;"><strong style="color: #000080;">Q5. How can I apply online for Bank Of Baroda LBO Recruitment 2026?</strong></p>
 <p style="margin: 0 0 0 0; color: #333333; line-height: 1.6;">Ans. Eligible candidates can click the 'Apply Online' link in the Important Links table, register, fill details, resize photo/signature via indtool.in, and submit before 07 September 2026.</p>
   </div>
 </div>
